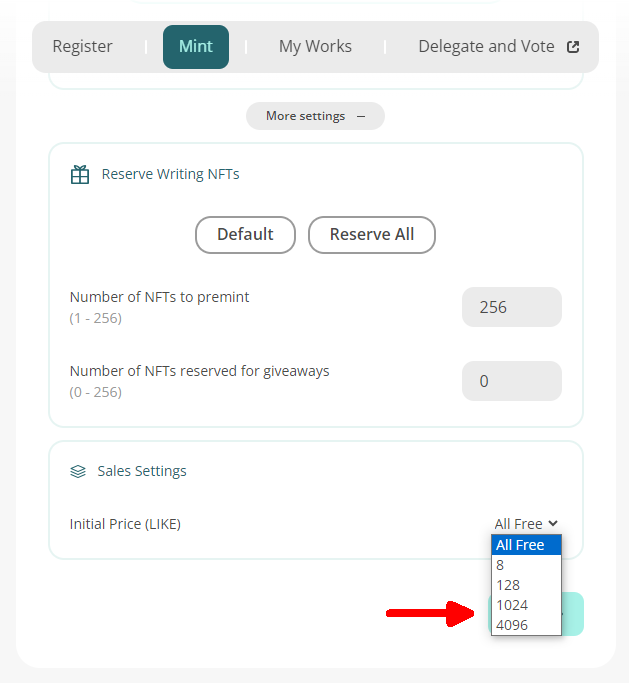
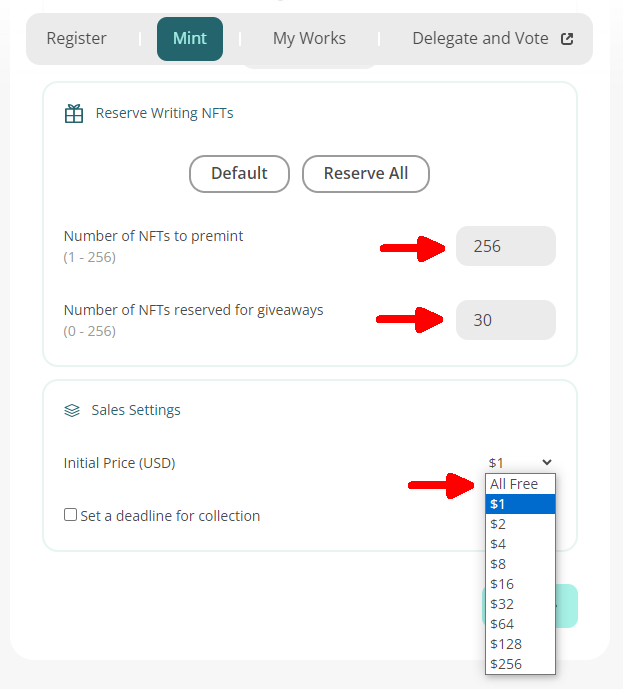
GITBOOK-4542: 發行 Writing NFT

diff --git a/general-guides/writing-nft/nft-portal/cosmostation-app.md b/general-guides/writing-nft/nft-portal/cosmostation-app.md
@@ -98,11 +98,15 @@ Cosmostation app 將彈出 Request Transaction Sign 視窗，點「Confirm」。
 
 點「Reserve All」可一次過預留所有預先鑄造及作為送贈之用的 NFT；
 
-在 Sales Settings 可設定 Writing NFT 起始售價 ( Initial Price ) 為 All Free、8、128、1024 或 4096 LIKE。All Free 即是將 NFT 供收藏者自行 Free Mint，他們不需要付出任何費用，只需付出[手續費](../../wallet/transaction-fee.md)。如不作設定，起始售價預會設為 128 LIKE；
+在 Sales Settings 可設定 Writing NFT 起始售價 ( Initial Price ) 為 All Free、$1、$2、$4、$8、$16、$32、$64、$128、$256。All Free 即是將 NFT 供收藏者自行 Free Mint，他們不需要付出任何費用，只需付出[手續費](../../wallet/transaction-fee.md)。如不作設定，起始售價預會設為 $1；
+
+<figure><img src="../../../.gitbook/assets/NFT Portal 5-4.png" alt=""><figcaption><p>輸入預留及送贈 Writing NFT 的數量，並設定起始售價</p></figcaption></figure>
+
+此外，也可以為 NFT 設定收藏期限，該日期過後收藏者將不能收集該 NFT；
 
 完成後再點「Next」。
 
-<figure><img src="../../../.gitbook/assets/NFT Portal 5-4.png" alt=""><figcaption><p>輸入預留及送贈 Writing NFT 的數量，並設定起始售價</p></figcaption></figure>
+<figure><img src="../../../.gitbook/assets/NFT Portal 5-5.png" alt=""><figcaption><p>設定收藏期限再點「Next」</p></figcaption></figure>
 
 {% hint style="info" %}
 任何作者也能把 Writing NFT 設成「非賣品」，方法是填寫 “Number of NFTs to premint” 的數量**等同**於 “Number of NFTs reserved for giveaways”，即代表作者預留全數 NFT 作送贈之用，便能達到設定 NFT 成「非賣品」 的效果，因為已發行的 NFT 都被作者預留而不會於市面流通。作者預留了的 Writing NFT ，免費送出或經二級市場售賣均可。

diff --git a/general-guides/writing-nft/nft-portal/cosmostation.md b/general-guides/writing-nft/nft-portal/cosmostation.md
@@ -82,11 +82,15 @@ description: 使用 Cosmostation 以文章網址出版 Writing NFT
 
 點「Reserve All」可一次過預留所有預先鑄造及作為送贈之用的 NFT；
 
-在 Sales Settings 可設定 Writing NFT 起始售價 ( Initial Price ) 為 All Free、8、128、1024 或 4096 LIKE。All Free 即是將 NFT 供收藏者自行 Free Mint，他們不需要付出任何費用，只需付出[手續費](../../wallet/transaction-fee.md)。如不作設定，起始售價預會設為 128 LIKE；
+在 Sales Settings 可設定 Writing NFT 起始售價 ( Initial Price ) 為 All Free、$1、$2、$4、$8、$16、$32、$64、$128、$256。All Free 即是將 NFT 供收藏者自行 Free Mint，他們不需要付出任何費用，只需付出[手續費](../../wallet/transaction-fee.md)。如不作設定，起始售價預會設為 $1；
+
+<figure><img src="../../../.gitbook/assets/NFT Portal 5-4.png" alt=""><figcaption><p>輸入預留及送贈 Writing NFT 的數量，並設定起始售價</p></figcaption></figure>
+
+此外，也可以為 NFT 設定收藏期限，該日期過後收藏者將不能收集該 NFT；
 
 完成後再點「Next」。
 
-<figure><img src="../../../.gitbook/assets/NFT Portal 5-4.png" alt=""><figcaption><p>輸入預留及送贈 Writing NFT 的數量，並設定起始售價</p></figcaption></figure>
+<figure><img src="../../../.gitbook/assets/NFT Portal 5-5.png" alt=""><figcaption><p>設定收藏期限再點「Next」</p></figcaption></figure>
 
 {% hint style="info" %}
 任何作者也能把 Writing NFT 設成「非賣品」，方法是填寫 “Number of NFTs to premint” 的數量**等同**於 “Number of NFTs reserved for giveaways”，即代表作者預留全數 NFT 作送贈之用，便能達到設定 NFT 成「非賣品」 的效果，因為已發行的 NFT 都被作者預留而不會於市面流通。作者預留了的 Writing NFT ，免費送出或經二級市場售賣均可。

diff --git a/general-guides/writing-nft/nft-portal/keplr.md b/general-guides/writing-nft/nft-portal/keplr.md
@@ -82,11 +82,15 @@ description: 使用 Keplr 以文章網址出版 Writing NFT
 
 點「Reserve All」可一次過預留所有預先鑄造及作為送贈之用的 NFT；
 
-在 Sales Settings 可設定 Writing NFT 起始售價 ( Initial Price ) 為 All Free、8、128、1024 或 4096 LIKE。All Free 即是將 NFT 供收藏者自行 Free Mint，他們不需要付出任何費用，只需付出[手續費](../../wallet/transaction-fee.md)。如不作設定，起始售價預會設為 128 LIKE；
+在 Sales Settings 可設定 Writing NFT 起始售價 ( Initial Price ) 為 All Free、$1、$2、$4、$8、$16、$32、$64、$128、$256。All Free 即是將 NFT 供收藏者自行 Free Mint，他們不需要付出任何費用，只需付出[手續費](../../wallet/transaction-fee.md)。如不作設定，起始售價預會設為 $1；
+
+<figure><img src="../../../.gitbook/assets/NFT Portal 5-4.png" alt=""><figcaption><p>輸入預留及送贈 Writing NFT 的數量，並設定起始售價</p></figcaption></figure>
+
+此外，也可以為 NFT 設定收藏期限，該日期過後收藏者將不能收集該 NFT。
 
 完成後再點「Next」。
 
-<figure><img src="../../../.gitbook/assets/NFT Portal 5-4.png" alt=""><figcaption><p>輸入預留及送贈 Writing NFT 的數量，並設定起始售價</p></figcaption></figure>
+<figure><img src="../../../.gitbook/assets/NFT Portal 5-5.png" alt=""><figcaption><p>設定收藏期限再點「Next」</p></figcaption></figure>
 
 {% hint style="info" %}
 任何作者也能把 Writing NFT 設成「非賣品」，方法是填寫 “Number of NFTs to premint” 的數量**等同**於 “Number of NFTs reserved for giveaways”，即代表作者預留全數 NFT 作送贈之用，便能達到設定 NFT 成「非賣品」 的效果，因為已發行的 NFT 都被作者預留而不會於市面流通。作者預留了的 Writing NFT ，免費送出或經二級市場售賣均可。

diff --git a/general-guides/writing-nft/nft-portal/matters.md b/general-guides/writing-nft/nft-portal/matters.md
@@ -2,7 +2,7 @@
 description: 為 Matters 文章出版 Writing NFT
 ---
 
-# Matters.town
+# Matters
 
 ## 教學影片
 
@@ -16,6 +16,6 @@ description: 為 Matters 文章出版 Writing NFT
 
 ## 步驟二：查找 ISCN 後直接出版 Writing NFT
 
-文章註冊 ISCN 後，到 [app.like.co](https://app.like.co/) 的「[My Works](https://app.like.co/works)」尋找已註冊文章的 ISCN，點右上角「Mint NFT」直接將 ISCN 鑄造為 Writing NFT。
+文章註冊 ISCN 後，到 [app.like.co](https://app.like.co/) 的「[My Works](https://app.like.co/works)」尋找已註冊文章的 ISCN，點右上角「Mint NFT」直接以 [Keplr](../../../user-guide/liker-id/register-with-keplr.md)、[Cosmostation](cosmostation-app.md)、[Cosmostation app](cosmostation.md) 或 [Liker Land app](liker-land-app.md) 將 ISCN 鑄造為 Writing NFT。
 
 <figure><img src="../../../.gitbook/assets/NFT Portal ISCN 4.png" alt=""><figcaption><p>點 Mint NFT 直接將 ISCN 鑄造為 Writing NFT</p></figcaption></figure>
